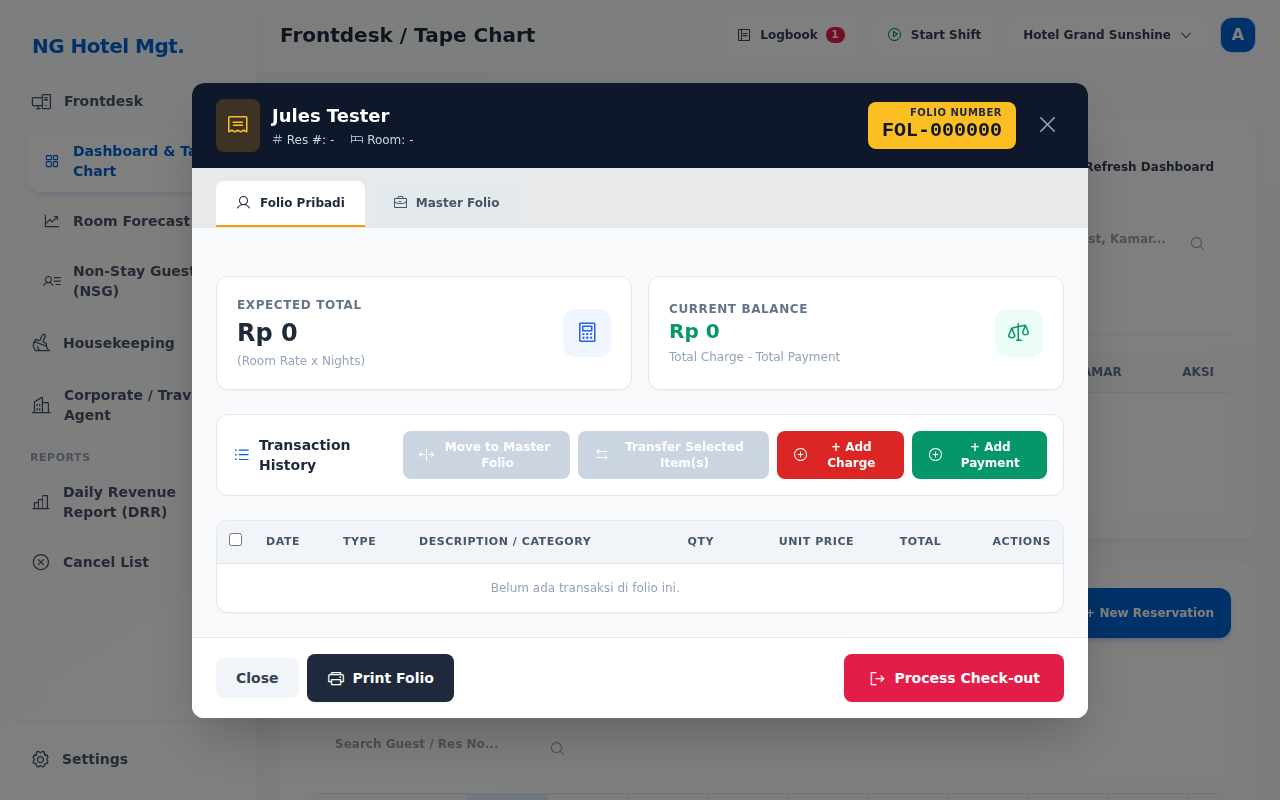
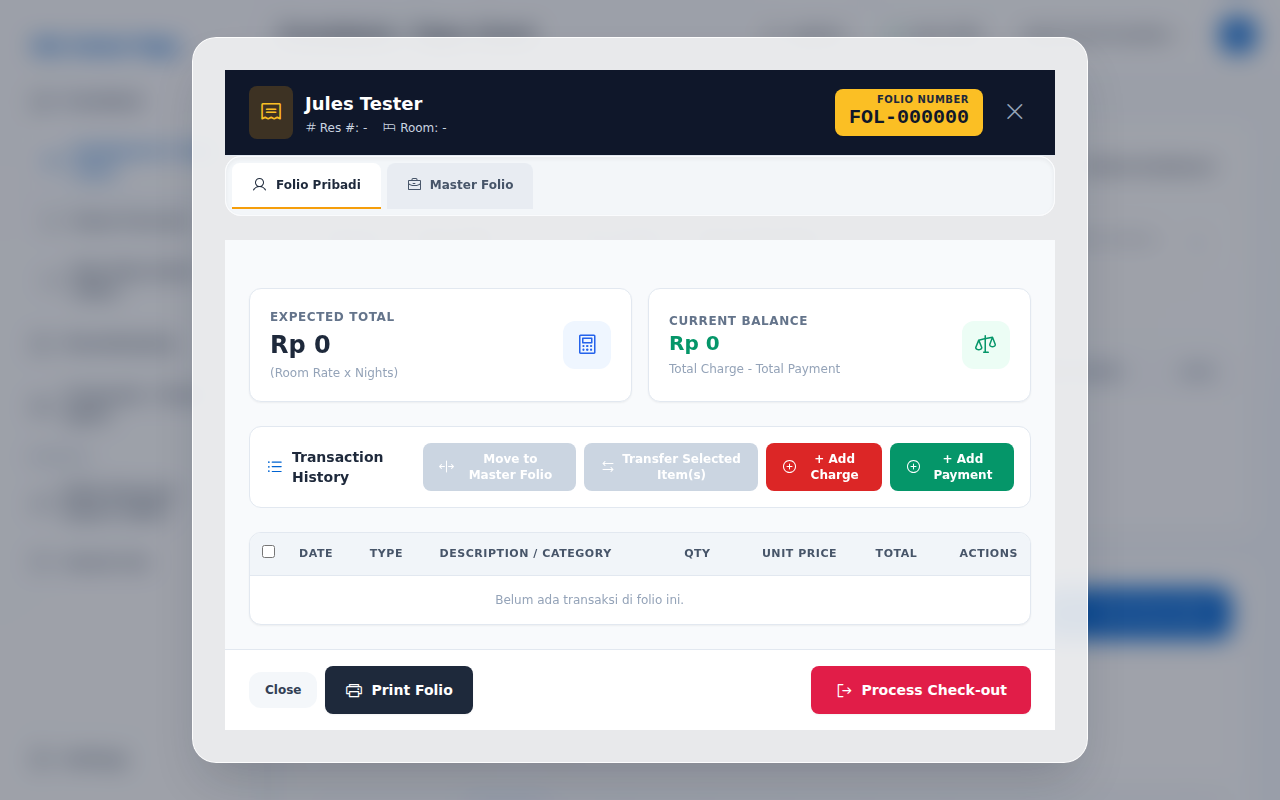
Optimize mobile responsiveness and mobile drawer navigation
- Add mobile hamburger button and slide-in sidebar drawer overlay in index.html
- Implement window.toggleMobileSidebar() with slide animations in js/app.js
- Auto-close mobile drawer when selecting navigation links in switchView()
- Optimize grid layouts for KPI cards and form inputs across views
- Add smooth touch scrolling for overflow-x-auto tables
- Adjust modal container sizes and max-height for mobile viewports

diff --git a/index.html b/index.html
@@ -44,6 +44,11 @@
           background: rgba(148, 163, 184, 1);
         }
 
+        /* Smooth Touch Scrolling for Tables */
+        .overflow-x-auto {
+          -webkit-overflow-scrolling: touch;
+        }
+
         /* Table Sticky Cell Enhancement */
         .sticky-glass-head {
           position: sticky;
@@ -69,14 +74,8 @@
 </head>
 <body class="bg-gradient-to-br from-slate-100 via-slate-50 to-blue-50/40 min-h-screen font-sans text-slate-800 antialiased selection:bg-primary/20 selection:text-primary flex h-screen overflow-hidden">
 
-    <!-- Mobile Header -->
-    <div class="md:hidden fixed top-0 w-full bg-white/70 backdrop-blur-md border-b border-white/80 z-50 flex justify-between items-center p-4 shadow-xs">
-        <h1 class="text-lg font-bold text-primary">NG Hotel</h1>
-        <button id="mobileMenuBtn" class="text-slate-600"><i class="ph ph-list text-2xl"></i></button>
-    </div>
-
     <!-- Sidebar -->
-    <aside id="sidebar" class="w-64 bg-white/70 backdrop-blur-xl border-r border-white/80 shadow-lg shadow-slate-200/40 flex flex-col justify-between p-4 fixed md:sticky top-0 h-screen z-30 transition-all duration-300 transform -translate-x-full md:translate-x-0 mt-14 md:mt-0">
+    <aside id="sidebar" class="hidden md:flex w-64 bg-white/70 backdrop-blur-xl border-r border-white/80 shadow-lg shadow-slate-200/40 flex-col justify-between p-4 sticky top-0 h-screen z-30 transition-all duration-300">
         <div class="p-4 hidden md:block">
             <h1 class="text-xl font-bold text-primary tracking-tight">NG Hotel Mgt.</h1>
         </div>
@@ -126,6 +125,63 @@
             </a>
         </div>
     </aside>
+
+    <!-- Mobile Sidebar Drawer Overlay -->
+    <div id="mobile-sidebar-overlay" class="fixed inset-0 z-50 bg-slate-900/50 backdrop-blur-sm md:hidden hidden transition-opacity duration-300" onclick="window.toggleMobileSidebar()">
+      <div id="mobile-sidebar-drawer" class="w-72 bg-white/95 backdrop-blur-2xl h-full p-4 shadow-2xl flex flex-col justify-between transform -translate-x-full transition-transform duration-300" onclick="event.stopPropagation()">
+        <div class="p-2 border-b border-slate-200/60 pb-3 flex items-center justify-between">
+            <h1 class="text-xl font-bold text-primary tracking-tight">NG Hotel Mgt.</h1>
+            <button type="button" onclick="window.toggleMobileSidebar()" class="text-slate-500 hover:text-slate-800 p-1">
+                <i class="ph ph-x text-xl"></i>
+            </button>
+        </div>
+        <nav class="flex-1 space-y-1.5 mt-2 overflow-y-auto">
+            <!-- Frontdesk Accordion -->
+            <div>
+                <button type="button" onclick="toggleFrontdeskAccordion()" class="w-full flex items-center justify-between px-3.5 py-2.5 rounded-xl text-slate-600 hover:text-slate-900 hover:bg-white/80 hover:shadow-sm border border-transparent hover:border-white/60 transition-all duration-200 hover:-translate-y-0.5 active:scale-95 text-sm font-semibold cursor-pointer">
+                    <div class="flex items-center gap-3">
+                        <i class="ph ph-desktop-tower text-xl"></i>
+                        <span class="font-semibold">Frontdesk</span>
+                    </div>
+                    <i class="ph ph-caret-down text-sm transition-transform duration-200 rotate-180"></i>
+                </button>
+                <div class="pl-3 space-y-1 mt-1">
+                    <a href="#" onclick="switchView('frontdesk')" class="flex items-center gap-3 px-3.5 py-2.5 rounded-xl text-slate-600 hover:text-slate-900 hover:bg-white/80 hover:shadow-sm border border-transparent hover:border-white/60 transition-all duration-200 text-sm font-semibold cursor-pointer">
+                        <i class="ph ph-squares-four text-lg"></i> Dashboard & Tape Chart
+                    </a>
+                    <a href="#" onclick="switchView('room-forecast')" class="flex items-center gap-3 px-3.5 py-2.5 rounded-xl text-slate-600 hover:text-slate-900 hover:bg-white/80 hover:shadow-sm border border-transparent hover:border-white/60 transition-all duration-200 text-sm font-semibold cursor-pointer">
+                        <i class="ph ph-chart-line-up text-lg"></i> Room Forecast
+                    </a>
+                    <a href="#" onclick="switchView('nsg')" class="flex items-center gap-3 px-3.5 py-2.5 rounded-xl text-slate-600 hover:text-slate-900 hover:bg-white/80 hover:shadow-sm border border-transparent hover:border-white/60 transition-all duration-200 text-sm font-semibold cursor-pointer">
+                        <i class="ph ph-user-list text-lg"></i> Non-Stay Guest (NSG)
+                    </a>
+                </div>
+            </div>
+
+            <a href="#" onclick="switchView('housekeeping')" class="flex items-center gap-3 px-3.5 py-2.5 rounded-xl text-slate-600 hover:text-slate-900 hover:bg-white/80 hover:shadow-sm border border-transparent hover:border-white/60 transition-all duration-200 text-sm font-semibold cursor-pointer">
+                <i class="ph ph-broom text-xl"></i> Housekeeping
+            </a>
+            <a href="#" onclick="switchView('corporate')" class="flex items-center gap-3 px-3.5 py-2.5 rounded-xl text-slate-600 hover:text-slate-900 hover:bg-white/80 hover:shadow-sm border border-transparent hover:border-white/60 transition-all duration-200 text-sm font-semibold cursor-pointer">
+                <i class="ph ph-buildings text-xl"></i> Corporate / Travel Agent
+            </a>
+            <!-- Reports Section -->
+            <div class="pt-2 space-y-1">
+                <div class="px-3.5 text-[11px] font-bold text-slate-400 uppercase tracking-wider mb-1">Reports</div>
+                <a href="#" onclick="switchView('report-drr')" class="flex items-center gap-3 px-3.5 py-2.5 rounded-xl text-slate-600 hover:text-slate-900 hover:bg-white/80 hover:shadow-sm border border-transparent hover:border-white/60 transition-all duration-200 text-sm font-semibold cursor-pointer">
+                    <i class="ph ph-chart-bar text-xl"></i> Daily Revenue Report (DRR)
+                </a>
+                <a href="#" onclick="switchView('cancel-list')" class="flex items-center gap-3 px-3.5 py-2.5 rounded-xl text-slate-600 hover:text-slate-900 hover:bg-white/80 hover:shadow-sm border border-transparent hover:border-white/60 transition-all duration-200 text-sm font-semibold cursor-pointer">
+                    <i class="ph ph-x-circle text-xl"></i> Cancel List
+                </a>
+            </div>
+        </nav>
+        <div class="pt-3 border-t border-slate-200/60 mt-auto">
+            <a href="#" onclick="switchView('settings')" class="flex items-center gap-3 px-3.5 py-2.5 rounded-xl text-slate-600 hover:text-slate-900 hover:bg-white/80 hover:shadow-sm border border-transparent hover:border-white/60 transition-all duration-200 text-sm font-semibold cursor-pointer">
+                <i class="ph ph-gear text-xl"></i> Settings
+            </a>
+        </div>
+      </div>
+    </div>
 
     <!-- Modal Add NSG Account -->
     <div id="nsgAccountModal" class="fixed inset-0 z-50 bg-slate-900/40 backdrop-blur-md flex items-center justify-center p-4 overflow-y-auto transition-opacity duration-300 hidden">
@@ -839,7 +895,7 @@
 
     <!-- Modal Guest Folio / Billing System -->
     <div id="folioModal" class="fixed inset-0 z-50 bg-slate-900/40 backdrop-blur-md flex items-center justify-center p-4 overflow-y-auto transition-opacity duration-300 hidden">
-        <div class="bg-white/85 backdrop-blur-2xl border border-white/90 shadow-2xl shadow-slate-900/20 rounded-3xl p-6 sm:p-8 max-w-4xl max-h-[92vh] flex flex-col w-full mx-auto transform transition-all duration-300 relative overflow-hidden">
+        <div class="bg-white/85 backdrop-blur-2xl border border-white/90 shadow-2xl shadow-slate-900/20 rounded-3xl p-6 sm:p-8 max-h-[92vh] overflow-y-auto w-[95%] sm:w-full max-w-4xl flex flex-col mx-auto transform transition-all duration-300 relative overflow-hidden">
 
             <!-- Header Info -->
             <div class="px-6 py-4 border-b border-slate-200 flex justify-between items-center bg-slate-900 text-white shrink-0">
@@ -1088,7 +1144,7 @@
 
     <!-- Modal Master Folio / Billing System -->
     <div id="masterFolioModal" class="fixed inset-0 z-50 bg-slate-900/40 backdrop-blur-md flex items-center justify-center p-4 overflow-y-auto transition-opacity duration-300 hidden">
-        <div class="bg-white/85 backdrop-blur-2xl border border-white/90 shadow-2xl shadow-slate-900/20 rounded-3xl p-6 sm:p-8 max-w-4xl max-h-[92vh] flex flex-col w-full mx-auto transform transition-all duration-300 relative overflow-hidden">
+        <div class="bg-white/85 backdrop-blur-2xl border border-white/90 shadow-2xl shadow-slate-900/20 rounded-3xl p-6 sm:p-8 max-h-[92vh] overflow-y-auto w-[95%] sm:w-full max-w-4xl flex flex-col mx-auto transform transition-all duration-300 relative overflow-hidden">
 
             <!-- Header Info -->
             <div class="px-6 py-4 border-b border-slate-200 flex justify-between items-center bg-indigo-950 text-white shrink-0">
@@ -1388,7 +1444,7 @@
 
     <!-- Modal New Reservation (4-Card Smart Form) -->
     <div id="reservationModal" class="fixed inset-0 z-50 bg-slate-900/40 backdrop-blur-md flex items-center justify-center p-4 overflow-y-auto transition-opacity duration-300 hidden">
-        <div class="bg-white/85 backdrop-blur-2xl border border-white/90 shadow-2xl shadow-slate-900/20 rounded-3xl p-6 sm:p-8 max-w-5xl max-h-[92vh] flex flex-col w-full mx-auto transform transition-all duration-300 relative overflow-hidden">
+        <div class="bg-white/85 backdrop-blur-2xl border border-white/90 shadow-2xl shadow-slate-900/20 rounded-3xl p-6 sm:p-8 max-h-[92vh] overflow-y-auto w-[95%] sm:w-full max-w-5xl flex flex-col mx-auto transform transition-all duration-300 relative overflow-hidden">
 
             <!-- Header -->
             <div class="pb-4 border-b border-slate-200/60 flex justify-between items-center shrink-0 mb-6">
@@ -1433,7 +1489,7 @@
                         </div>
 
                         <!-- Guest Type & Reserve Name -->
-                        <div class="grid grid-cols-1 sm:grid-cols-2 gap-3">
+                        <div class="grid grid-cols-1 md:grid-cols-2 gap-4">
                             <div>
                                 <label class="block text-xs font-medium text-slate-700 mb-1">Guest Type <span class="text-red-500">*</span></label>
                                 <select id="res-guest-type" onchange="handleGuestTypeChange()" class="w-full bg-white/60 hover:bg-white/90 focus:bg-white border border-slate-200/80 focus:border-primary/60 focus:ring-4 focus:ring-primary/15 rounded-xl px-3.5 py-2.5 text-sm font-medium text-slate-800 placeholder-slate-400 transition-all duration-200 outline-none shadow-2xs">
@@ -1464,7 +1520,7 @@
                             </div>
                         </div>
 
-                        <div class="grid grid-cols-1 sm:grid-cols-2 gap-3">
+                        <div class="grid grid-cols-1 md:grid-cols-2 gap-4">
                             <!-- ID Card No -->
                             <div>
                                 <label class="block text-xs font-medium text-slate-700 mb-1">ID Card No (KTP/Passport)</label>
@@ -1478,7 +1534,7 @@
                             </div>
                         </div>
 
-                        <div class="grid grid-cols-1 sm:grid-cols-2 gap-3">
+                        <div class="grid grid-cols-1 md:grid-cols-2 gap-4">
                             <!-- Email -->
                             <div>
                                 <label class="block text-xs font-medium text-slate-700 mb-1">Email Address</label>
@@ -1515,7 +1571,7 @@
                             </div>
                         </div>
 
-                        <div class="grid grid-cols-1 sm:grid-cols-2 gap-3">
+                        <div class="grid grid-cols-1 md:grid-cols-2 gap-4">
                             <!-- City -->
                             <div>
                                 <label class="block text-xs font-medium text-slate-700 mb-1">City</label>
@@ -2022,7 +2078,7 @@
 
     <!-- Modal Rooming List / Split Reservasi -->
     <div id="roomingListModal" class="fixed inset-0 z-50 bg-slate-900/40 backdrop-blur-md flex items-center justify-center p-4 overflow-y-auto transition-opacity duration-300 hidden">
-        <div class="bg-white/85 backdrop-blur-2xl border border-white/90 shadow-2xl shadow-slate-900/20 rounded-3xl p-6 sm:p-8 max-w-4xl max-h-[92vh] flex flex-col w-full mx-auto transform transition-all duration-300 relative overflow-hidden">
+        <div class="bg-white/85 backdrop-blur-2xl border border-white/90 shadow-2xl shadow-slate-900/20 rounded-3xl p-6 sm:p-8 max-h-[92vh] overflow-y-auto w-[95%] sm:w-full max-w-4xl flex flex-col mx-auto transform transition-all duration-300 relative overflow-hidden">
 
             <!-- Header -->
             <div class="pb-4 border-b border-slate-200/60 flex justify-between items-center shrink-0 mb-6">
@@ -2304,10 +2360,16 @@
     </div>
 
     <!-- Main Content -->
-    <main class="flex-1 flex flex-col h-full mt-14 md:mt-0 w-full overflow-hidden">
+    <main class="flex-1 flex flex-col h-full w-full overflow-hidden">
         <!-- Topbar -->
-        <header id="frontdesk-topbar" class="bg-white/60 backdrop-blur-md border-b border-white/80 sticky top-0 z-20 px-6 py-3.5 flex justify-between items-center shadow-xs transition-all duration-300">
-            <h2 class="text-xl font-semibold text-slate-800 hidden md:block">Frontdesk / Tape Chart</h2>
+        <header id="frontdesk-topbar" class="bg-white/60 backdrop-blur-md border-b border-white/80 sticky top-0 z-20 px-4 md:px-6 py-3.5 flex justify-between items-center shadow-xs transition-all duration-300">
+            <div class="flex items-center gap-3">
+                <button id="btn-mobile-menu" onclick="window.toggleMobileSidebar()" class="md:hidden p-2 bg-white/70 hover:bg-white backdrop-blur-md rounded-xl text-slate-700 border border-white/80 shadow-xs cursor-pointer">
+                  <i class="ph ph-list text-xl"></i>
+                </button>
+                <h2 class="text-xl font-semibold text-slate-800 hidden md:block">Frontdesk / Tape Chart</h2>
+                <h1 class="text-lg font-bold text-primary md:hidden">NG Hotel</h1>
+            </div>
             <div class="flex items-center gap-3 ml-auto">
                 <!-- Logbook Button -->
                 <button type="button" onclick="openLogbookModal()" class="relative px-3.5 py-2 bg-white/70 hover:bg-white/95 backdrop-blur-md border border-white/80 text-slate-700 hover:text-slate-900 rounded-xl text-xs font-semibold shadow-xs hover:shadow-md transition-all duration-200 hover:-translate-y-0.5 active:scale-95 flex items-center gap-2 cursor-pointer">

diff --git a/js/app.js b/js/app.js
@@ -311,6 +311,25 @@ todayDate.setHours(0, 0, 0, 0);
 
 export let initializedAppDate = new Date().toDateString();
 
+// Mobile Drawer Toggle Function
+window.toggleMobileSidebar = function() {
+    const overlay = document.getElementById('mobile-sidebar-overlay');
+    const drawer = document.getElementById('mobile-sidebar-drawer');
+    if (!overlay || !drawer) return;
+
+    if (overlay.classList.contains('hidden')) {
+        overlay.classList.remove('hidden');
+        setTimeout(() => {
+            drawer.classList.remove('-translate-x-full');
+        }, 10);
+    } else {
+        drawer.classList.add('-translate-x-full');
+        setTimeout(() => {
+            overlay.classList.add('hidden');
+        }, 300);
+    }
+};
+
 // Frontdesk Accordion Toggle Function
 export function toggleFrontdeskAccordion(forceOpen) {
     const submenu = document.getElementById('frontdesk-submenu');
@@ -498,10 +517,10 @@ export async function switchView(viewName) {
         await renderTapeChart();
     }
 
-    // Toggle Mobile Menu closed if open
-    const sidebar = document.getElementById('sidebar');
-    if (sidebar && !sidebar.classList.contains('-translate-x-full')) {
-        sidebar.classList.add('-translate-x-full');
+    // Toggle Mobile Drawer closed if open
+    const overlay = document.getElementById('mobile-sidebar-overlay');
+    if (overlay && !overlay.classList.contains('hidden')) {
+        window.toggleMobileSidebar();
     }
 }
 
